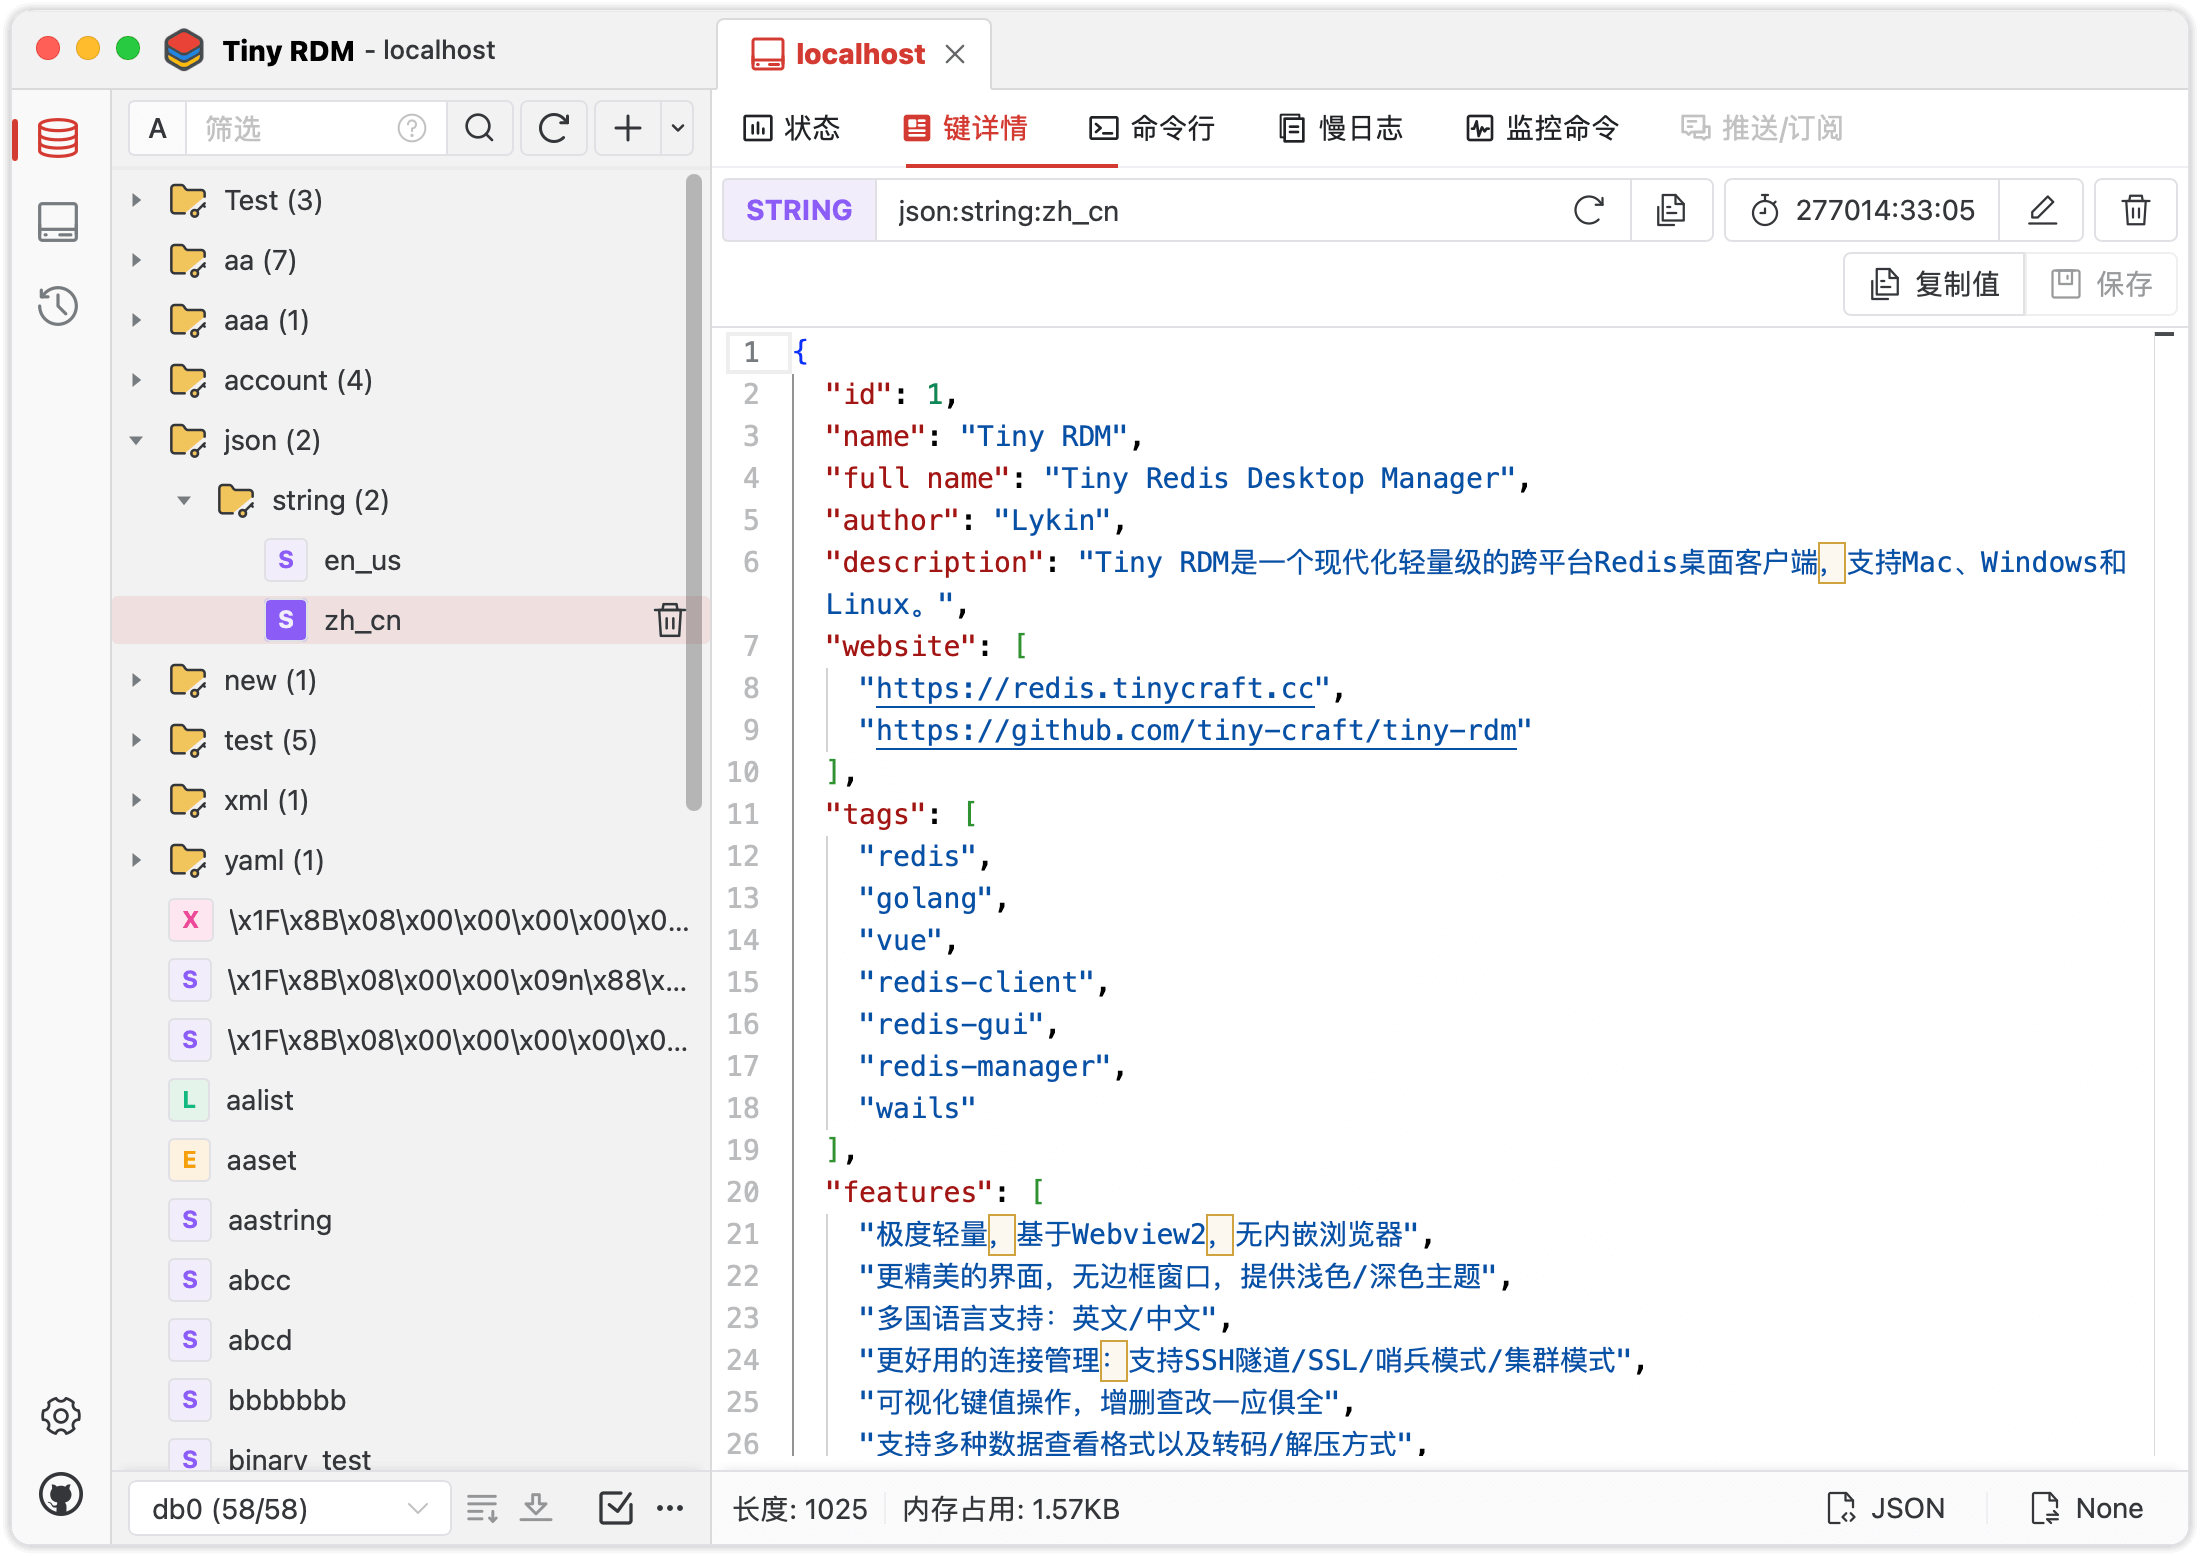
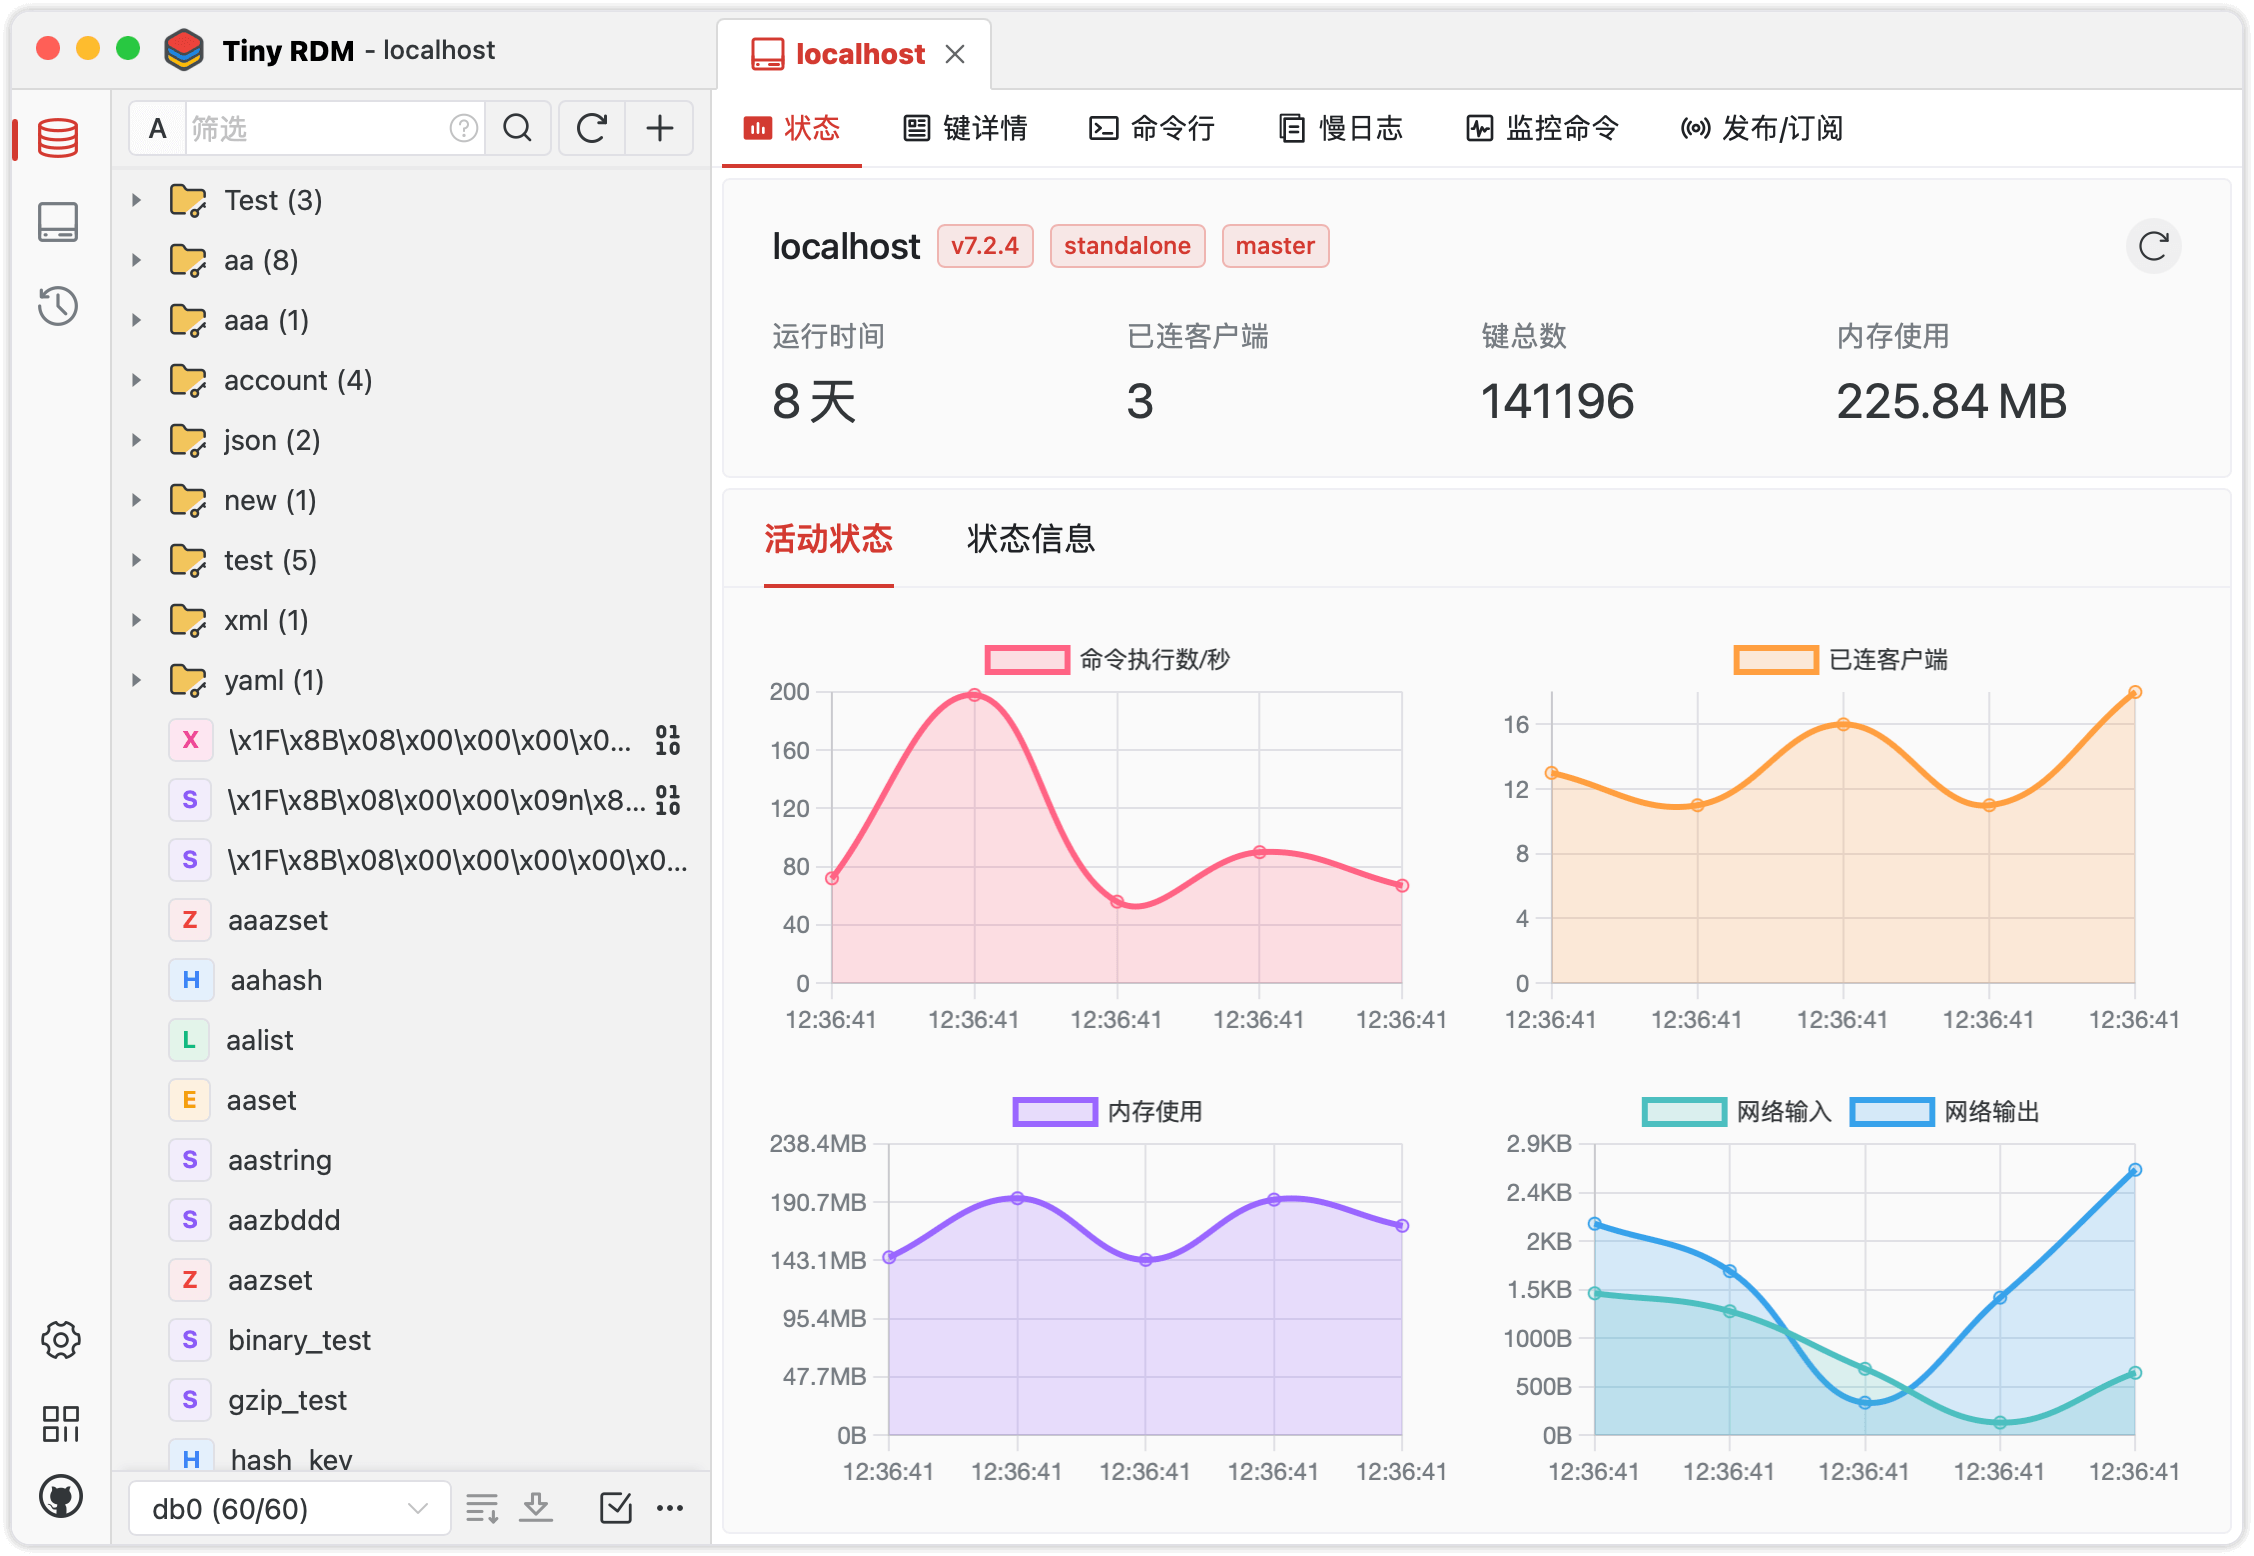
doc: update README

diff --git a/README_zh.md b/README_zh.md
@@ -20,6 +20,12 @@
  <img alt="screenshot" src="screenshots/dark_zh.png">
 </picture>
 
+<picture>
+ <source media="(prefers-color-scheme: dark)" srcset="screenshots/dark_zh2.png">
+ <source media="(prefers-color-scheme: light)" srcset="screenshots/light_zh2.png">
+ <img alt="screenshot" src="screenshots/dark_zh2.png">
+</picture>
+
 ## 功能特性
 
 * 极度轻量，基于Webview2，无内嵌浏览器（感谢[Wails](https://github.com/wailsapp/wails)）

diff --git a/README.md b/README.md
@@ -24,6 +24,12 @@ Linux.</strong>
  <img alt="screenshot" src="screenshots/dark_en.png">
 </picture>
 
+<picture>
+ <source media="(prefers-color-scheme: dark)" srcset="screenshots/dark_en2.png">
+ <source media="(prefers-color-scheme: light)" srcset="screenshots/light_en2.png">
+ <img alt="screenshot" src="screenshots/dark_en2.png">
+</picture>
+
 ## Feature
 
 * Super lightweight, built on Webview2, without embedded browsers (Thanks
